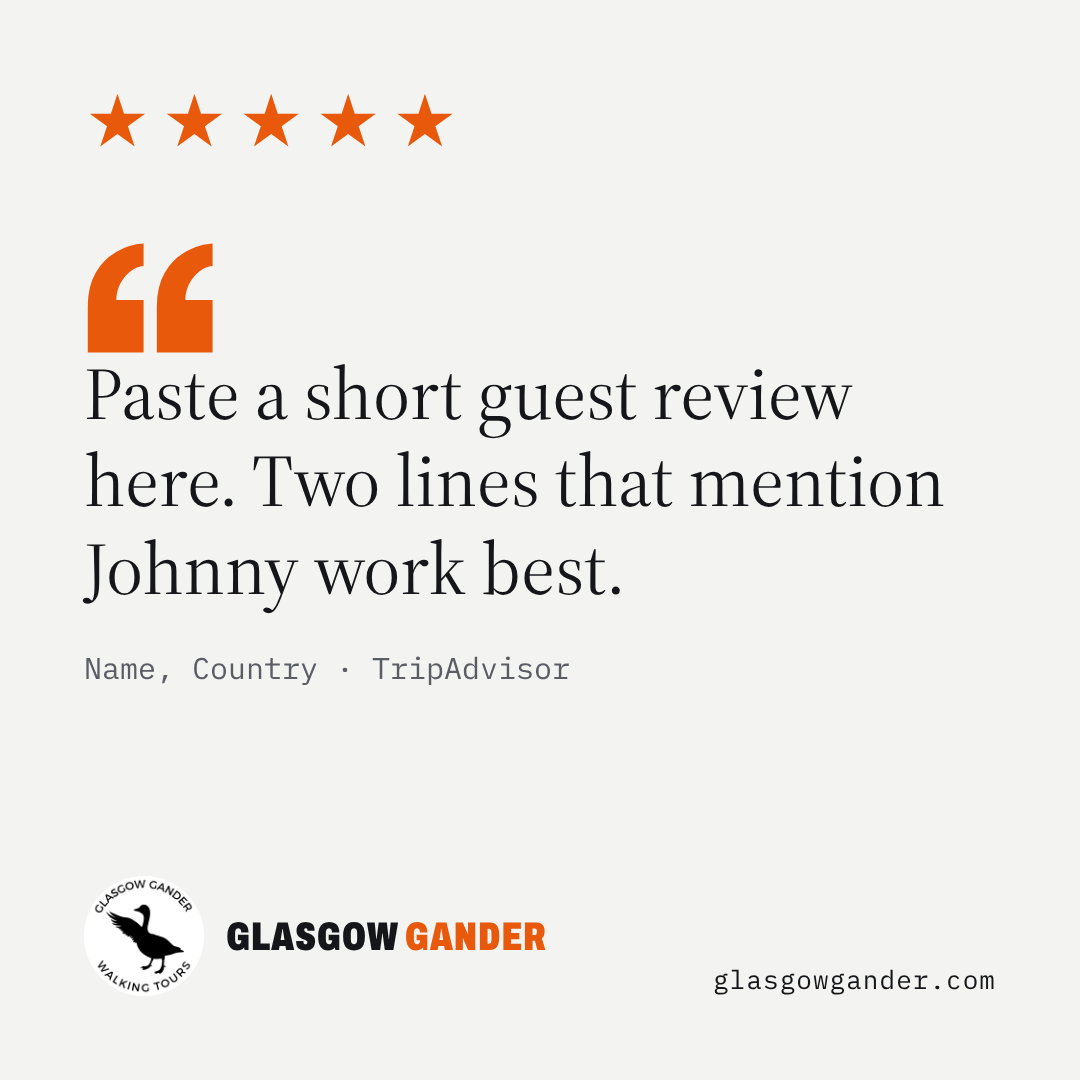
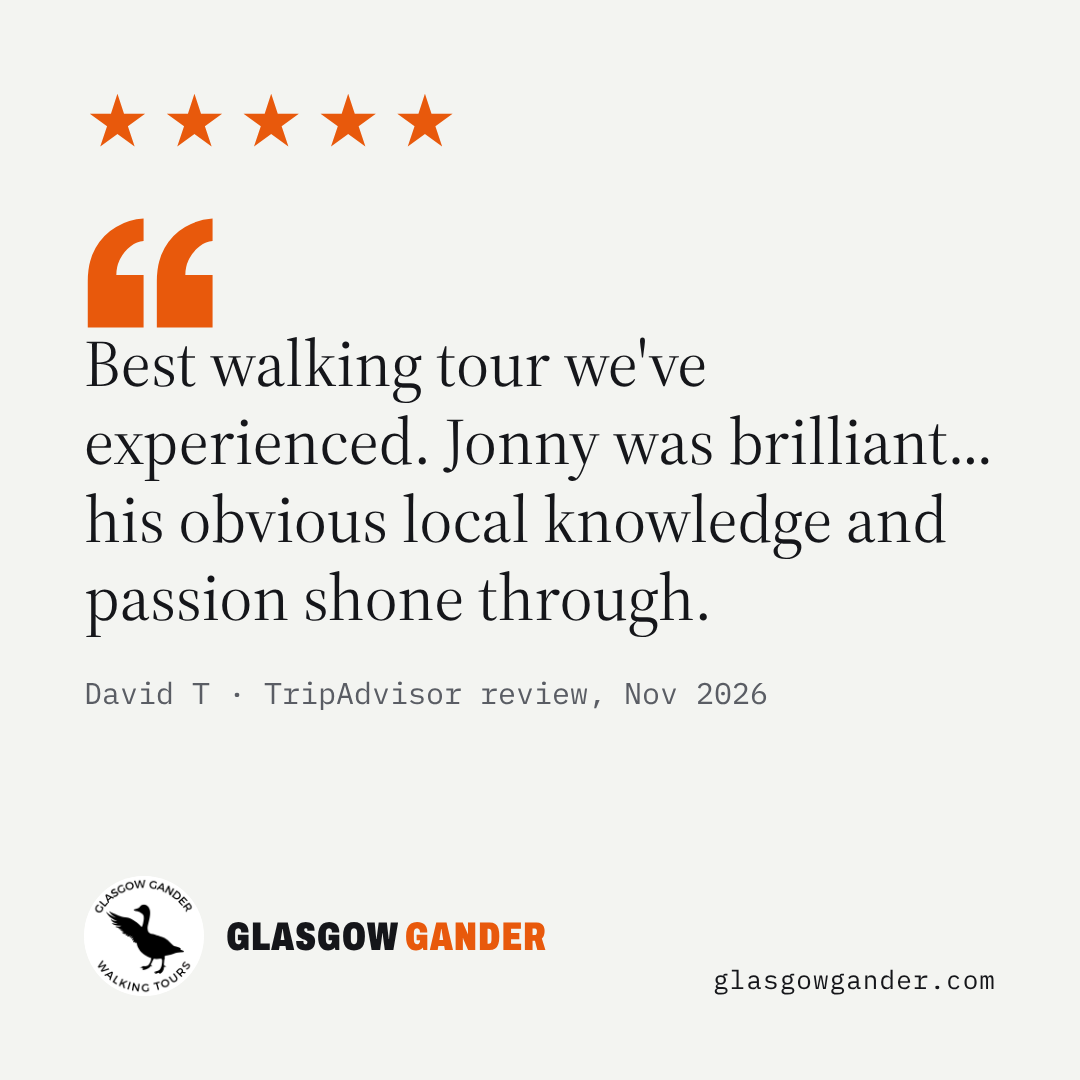
Add real TripAdvisor reviews to homepage and social posts
Six verbatim guest quotes replace the review placeholders, with a link to
the TripAdvisor listing. Post 3 now quotes David T and a new post 8
quotes Irene B.

Claude-Session: https://claude.ai/code/session_01NVZjhXLwDRfLrGN4dTyPTs

Changed region(s): [[0.0611, 0.1833, 0.8861, 0.6722], [0.0611, 0.6111, 0.55, 0.6722], [0.6417, 0.6111, 0.7028, 0.6722]]

diff --git a/index.html b/index.html
@@ -160,13 +160,15 @@ section.block { padding-block: clamp(3rem, 7vw, 5.5rem); }
 .reviews { background: var(--card); border-block: 1px solid var(--line); }
 .score { display: flex; flex-wrap: wrap; align-items: baseline; gap: 0.5rem 1.25rem; }
 .score b { font-family: var(--font-display); font-weight: 900; font-stretch: 70%; font-size: clamp(4rem, 12vw, 7rem); line-height: 0.9; }
-.quotes { display: grid; grid-template-columns: repeat(3, minmax(0, 1fr)); gap: 1.5rem; margin-top: 2rem; }
+.quotes { display: grid; grid-template-columns: repeat(3, minmax(0, 1fr)); gap: 2rem 1.5rem; margin-top: 2rem; }
 .quotes blockquote { margin: 0; display: grid; gap: 0.75rem; align-content: start; padding-top: 1rem; border-top: 3px solid var(--ink); }
-.quotes p { font-size: 1.1rem; line-height: 1.5; }
+.quotes p { font-size: 1.02rem; line-height: 1.5; color: var(--muted); }
+.quotes .headline { font-family: var(--font-display); font-weight: 800; font-stretch: 85%; font-size: var(--step-1); line-height: 1.15; color: var(--ink); text-wrap: balance; }
 .quotes cite { font-style: normal; font-family: var(--font-mono); font-size: 0.8rem; color: var(--muted); }
 .placeholder { color: var(--muted); font-style: italic; }
 .review-links { margin-top: 2rem; display: flex; flex-wrap: wrap; gap: 0.75rem; }
-@media (max-width: 820px) { .quotes { grid-template-columns: 1fr; } }
+@media (max-width: 960px) { .quotes { grid-template-columns: repeat(2, minmax(0, 1fr)); } }
+@media (max-width: 600px) { .quotes { grid-template-columns: 1fr; } }
 
 /* Johnny */
 .johnny .wrap { display: grid; grid-template-columns: minmax(0, 0.9fr) minmax(0, 1.1fr); gap: clamp(1.5rem, 5vw, 4rem); align-items: center; }
@@ -340,14 +342,17 @@ footer nav { display: flex; gap: 1.25rem; flex-wrap: wrap; }
           <h2 id="reviews-h">What guests say</h2>
         </div>
       </div>
-      <!-- TODO: paste three real reviews (short, ideally naming Johnny) with first name and country -->
+      <!-- Verbatim TripAdvisor reviews, Sep–Nov 2026. Spellings kept as the guests wrote them. -->
       <div class="quotes">
-        <blockquote><p class="placeholder">Guest review 1: paste a favourite TripAdvisor or Google review here.</p><cite>Name, country · TripAdvisor</cite></blockquote>
-        <blockquote><p class="placeholder">Guest review 2: one that mentions Johnny's storytelling works best.</p><cite>Name, country · Google</cite></blockquote>
-        <blockquote><p class="placeholder">Guest review 3: one that mentions the rain, and that it didn't matter.</p><cite>Name, country · TripAdvisor</cite></blockquote>
+        <blockquote><p class="headline">Best walking tour we've experienced.</p><p>Jonny was brilliant, a natural chatty self effacing style, his obvious local knowledge and passion shone through.</p><cite>David T · TripAdvisor, Nov 2026</cite></blockquote>
+        <blockquote><p class="headline">Three hours flew right by!</p><p>Johnny was a fantastic tour guide with a wealth of knowledge and tips about the beautifully packed city!</p><cite>Dan H, San Francisco · TripAdvisor, Nov 2026</cite></blockquote>
+        <blockquote><p class="headline">I'd barely scraped the surface!</p><p>I thought I'd discovered quite a lot on my own over the last few days, but this tour made me realise I'd barely scraped the surface!</p><cite>Irene B · TripAdvisor, Oct 2026</cite></blockquote>
+        <blockquote><p class="headline">Outstanding. A must do!</p><p>Such value for money, and one of the most engaging tour guides we have had on any city tour.</p><cite>Rosscodad, Northamptonshire · TripAdvisor, Oct 2026</cite></blockquote>
+        <blockquote><p class="headline">If doing a walking tour&hellip; do this one!</p><p>Without his tour we would have missed out on so much interesting information about Glasgow.</p><cite>Matt D, Stanmore · TripAdvisor, Oct 2026</cite></blockquote>
+        <blockquote><p class="headline">We loved the stories and the banter.</p><p>He gave us a ton of advise where to experience best food, music, night life, culture and history. Amazing value for money.</p><cite>Marcin K · TripAdvisor, Oct 2026</cite></blockquote>
       </div>
       <div class="review-links">
-        <a class="btn ghost" href="https://www.tripadvisor.co.uk/">Read reviews on TripAdvisor</a>
+        <a class="btn ghost" href="https://www.tripadvisor.com/Attraction_Review-g186534-d14152744-Reviews-Glasgow_Gander_Walking_Tours-Glasgow_Scotland.html">Read all reviews on TripAdvisor</a>
         <a class="btn ghost" href="https://www.google.com/maps/search/Glasgow+Gander+Walking+Tours">Read reviews on Google</a>
       </div>
     </div>

diff --git a/social/posts.html b/social/posts.html
@@ -75,6 +75,12 @@ body { margin: 0; background: #777; display: grid; gap: 40px; padding: 40px; jus
 .p7 h1 { font-size: 118px; }
 .p7 .sub { font-family: var(--serif); font-size: 34px; line-height: 1.3; color: var(--paper); margin-top: 18px; }
 .p7 .badge { position: absolute; top: 48px; right: 48px; width: 170px; height: 170px; }
+.p8 { background: var(--cone); }
+.p8 .stars { color: var(--ink); }
+.p8 blockquote::before { color: var(--ink); }
+.p8 cite { color: var(--ink); }
+.p8 .mark .o { color: var(--white); }
+.p3 blockquote { font-size: 66px; }
 </style>
 </head>
 <body>
@@ -105,12 +111,12 @@ body { margin: 0; background: #777; display: grid; gap: 40px; padding: 40px; jus
   <div class="foot"><span class="brand"><img class="logo" src="../assets/logo.png" alt=""><span class="mark">Glasgow Gander</span></span><span>glasgowgander.com</span></div>
 </article>
 
-<!-- 3. Review (template: replace the quote and name) -->
+<!-- 3. Review: David T, TripAdvisor (verbatim, trimmed) -->
 <article class="post p3" id="post-3">
   <div class="stars">★★★★★</div>
   <div>
-    <blockquote>Paste a short guest review here. Two lines that mention Johnny work best.</blockquote>
-    <cite>Name, Country · TripAdvisor</cite>
+    <blockquote>Best walking tour we've experienced. Jonny was brilliant&hellip; his obvious local knowledge and passion shone through.</blockquote>
+    <cite>David T · TripAdvisor review, Nov 2026</cite>
   </div>
   <div class="foot"><span class="brand"><img class="logo" src="../assets/logo.png" alt=""><span class="mark">Glasgow <span class="o">Gander</span></span></span><span>glasgowgander.com</span></div>
 </article>
@@ -160,6 +166,16 @@ body { margin: 0; background: #777; display: grid; gap: 40px; padding: 40px; jus
     </div>
     <div class="foot"><span>Daily 10.30am</span><span>glasgowgander.com</span></div>
   </div>
+</article>
+
+<!-- 8. Review: Irene B, TripAdvisor (verbatim) -->
+<article class="post p3 p8" id="post-8">
+  <div class="stars">★★★★★</div>
+  <div>
+    <blockquote>I thought I'd discovered quite a lot on my own over the last few days, but this tour made me realise I'd barely scraped the surface!</blockquote>
+    <cite>Irene B · TripAdvisor review, Oct 2026</cite>
+  </div>
+  <div class="foot"><span class="brand"><img class="logo" src="../assets/logo.png" alt=""><span class="mark">Glasgow <span class="o">Gander</span></span></span><span>glasgowgander.com</span></div>
 </article>
 
 </body>

diff --git a/README.md b/README.md
@@ -4,13 +4,14 @@ Proposed new homepage and marketing material for Glasgow Gander Walking Tours.
 
 - `index.html`: a single-page homepage. Booking buttons link to the existing Wix booking page, so it can go live without changing the booking system. It fixes the SEO description, which currently says "FREE".
 - `assets/`: the logo, Johnny's photo and the City Chambers photo, web-sized, all taken from the current site. Full-size originals are in `assets/originals/`.
-- `social/posts.html`: seven 1080×1080 Instagram/Facebook post designs. Edit the words in the file, then export them with `node social/render.js` (needs Playwright). The exported images are in `social/png/`.
+- `social/posts.html`: eight 1080×1080 Instagram/Facebook post designs. Edit the words in the file, then export them with `node social/render.js` (needs Playwright). The exported images are in `social/png/`.
 
 ## Before going live
 
 Search `index.html` for `TODO`:
 
 1. Replace "hundreds of" with the real current review count.
-2. Paste three real guest reviews into the reviews section.
-3. Swap in a photo of Johnny on tour in the Gander jacket, if one exists. The current one, from the Wix site, is in a pub.
-4. Confirm prices for the private and group packages (currently "Ask for a quote").
+2. Swap in a photo of Johnny on tour in the Gander jacket, if one exists. The current one, from the Wix site, is in a pub.
+3. Confirm prices for the private and group packages (currently "Ask for a quote").
+
+The reviews section and social posts 3 and 8 quote TripAdvisor reviews from September to November 2026, word for word.
